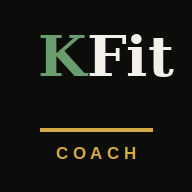
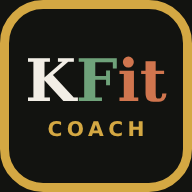
Add files via upload

diff --git a/kfit-coach-merged.html b/kfit-coach-merged.html
@@ -9,7 +9,7 @@
 <meta name="apple-mobile-web-app-status-bar-style" content="black">
 <meta name="apple-mobile-web-app-title" content="KFit Coach">
 <link rel="manifest" href="/manifest-coach.json">
-<link rel="apple-touch-icon" href="/icon-coach-192.png">
+<link rel="apple-touch-icon" href="/apple-touch-icon-coach.png?v=2">
 <link rel="icon" href="/icon-coach-192.png">
 <link rel="preconnect" href="https://fonts.googleapis.com">
 <link href="https://fonts.googleapis.com/css2?family=DM+Sans:wght@300;400;500;700;800;900&family=DM+Mono:wght@400;500;700&family=Playfair+Display:ital,wght@0,500;0,700;0,900;1,500&display=swap" rel="stylesheet">

diff --git a/sw.js b/sw.js
@@ -1,4 +1,4 @@
-const V = "kfit-v92";
+const V = "kfit-v93";
 self.addEventListener("install", e => { self.skipWaiting(); });
 self.addEventListener("activate", e => e.waitUntil(
   // v40: batch 28b (supersets from any exercise). Bumping
